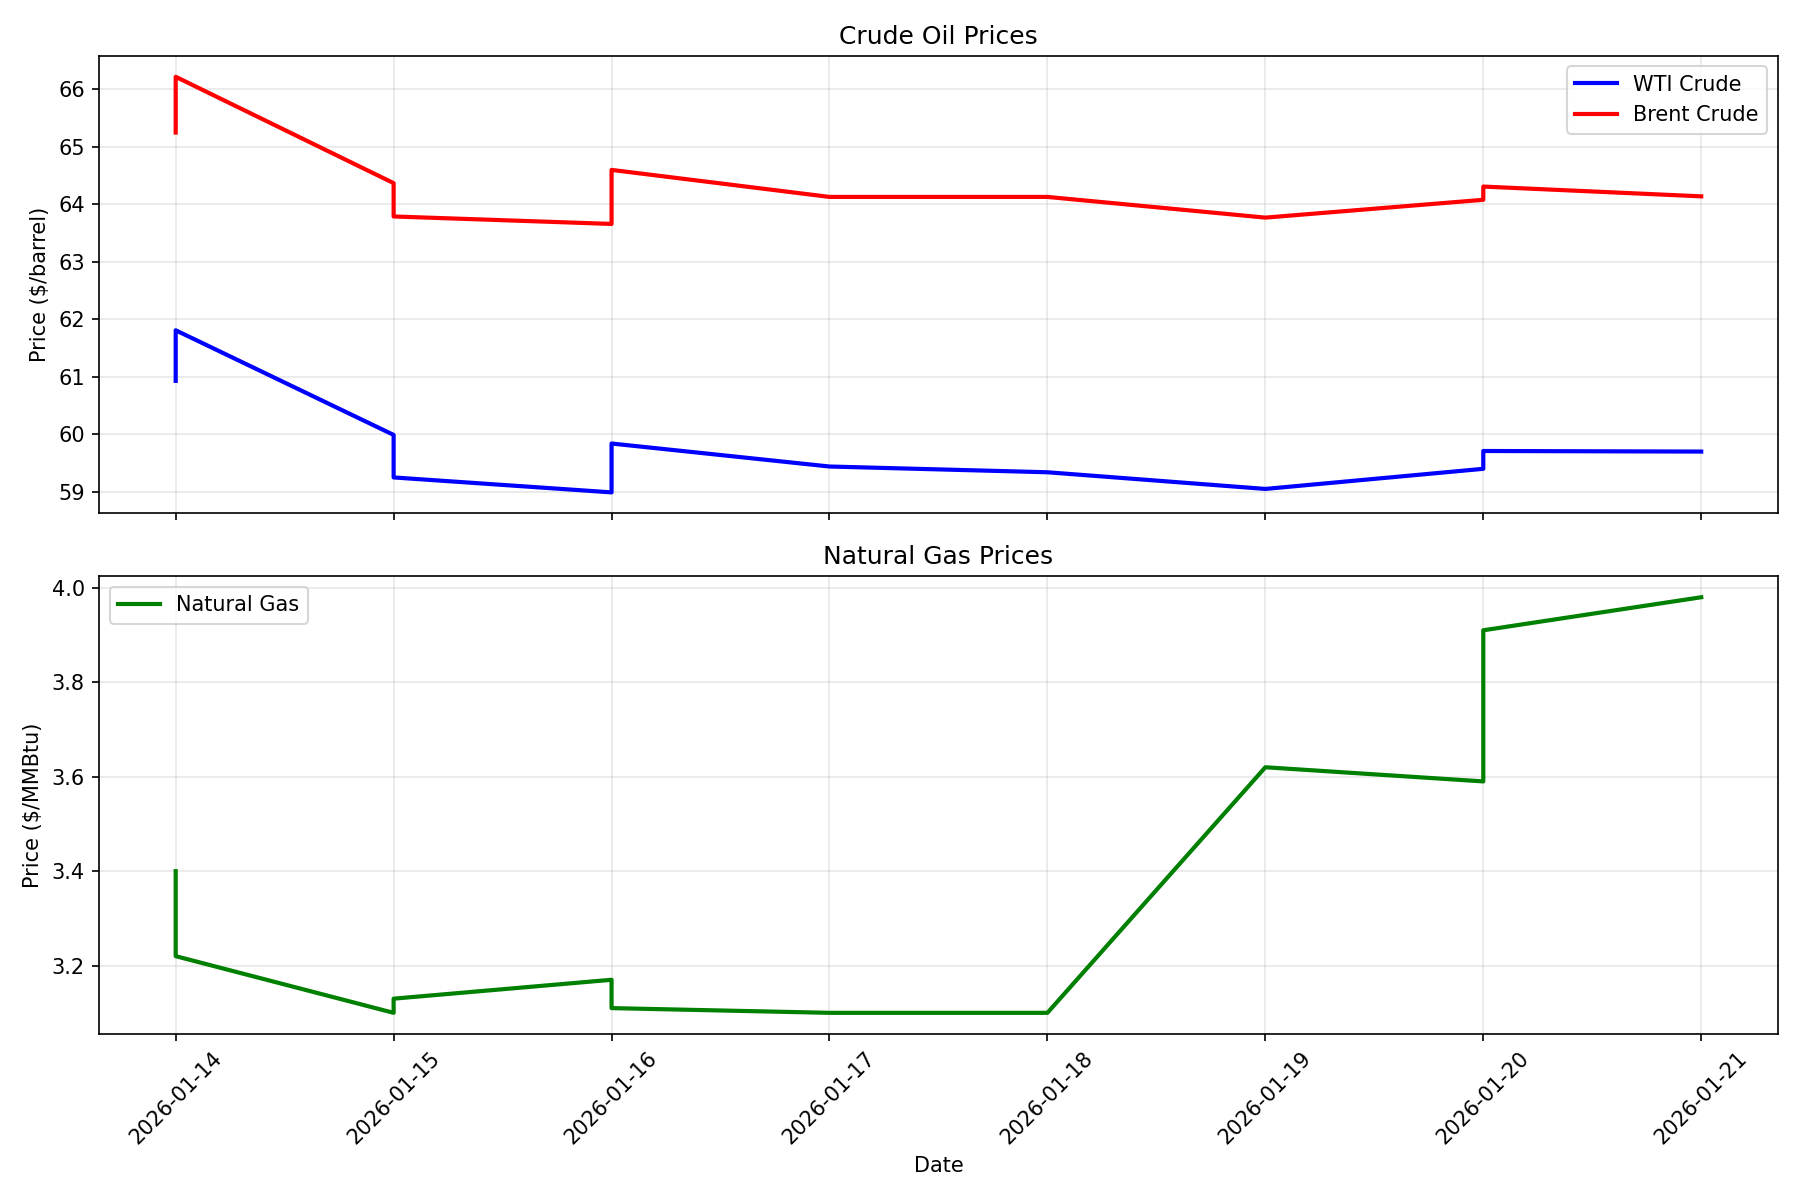
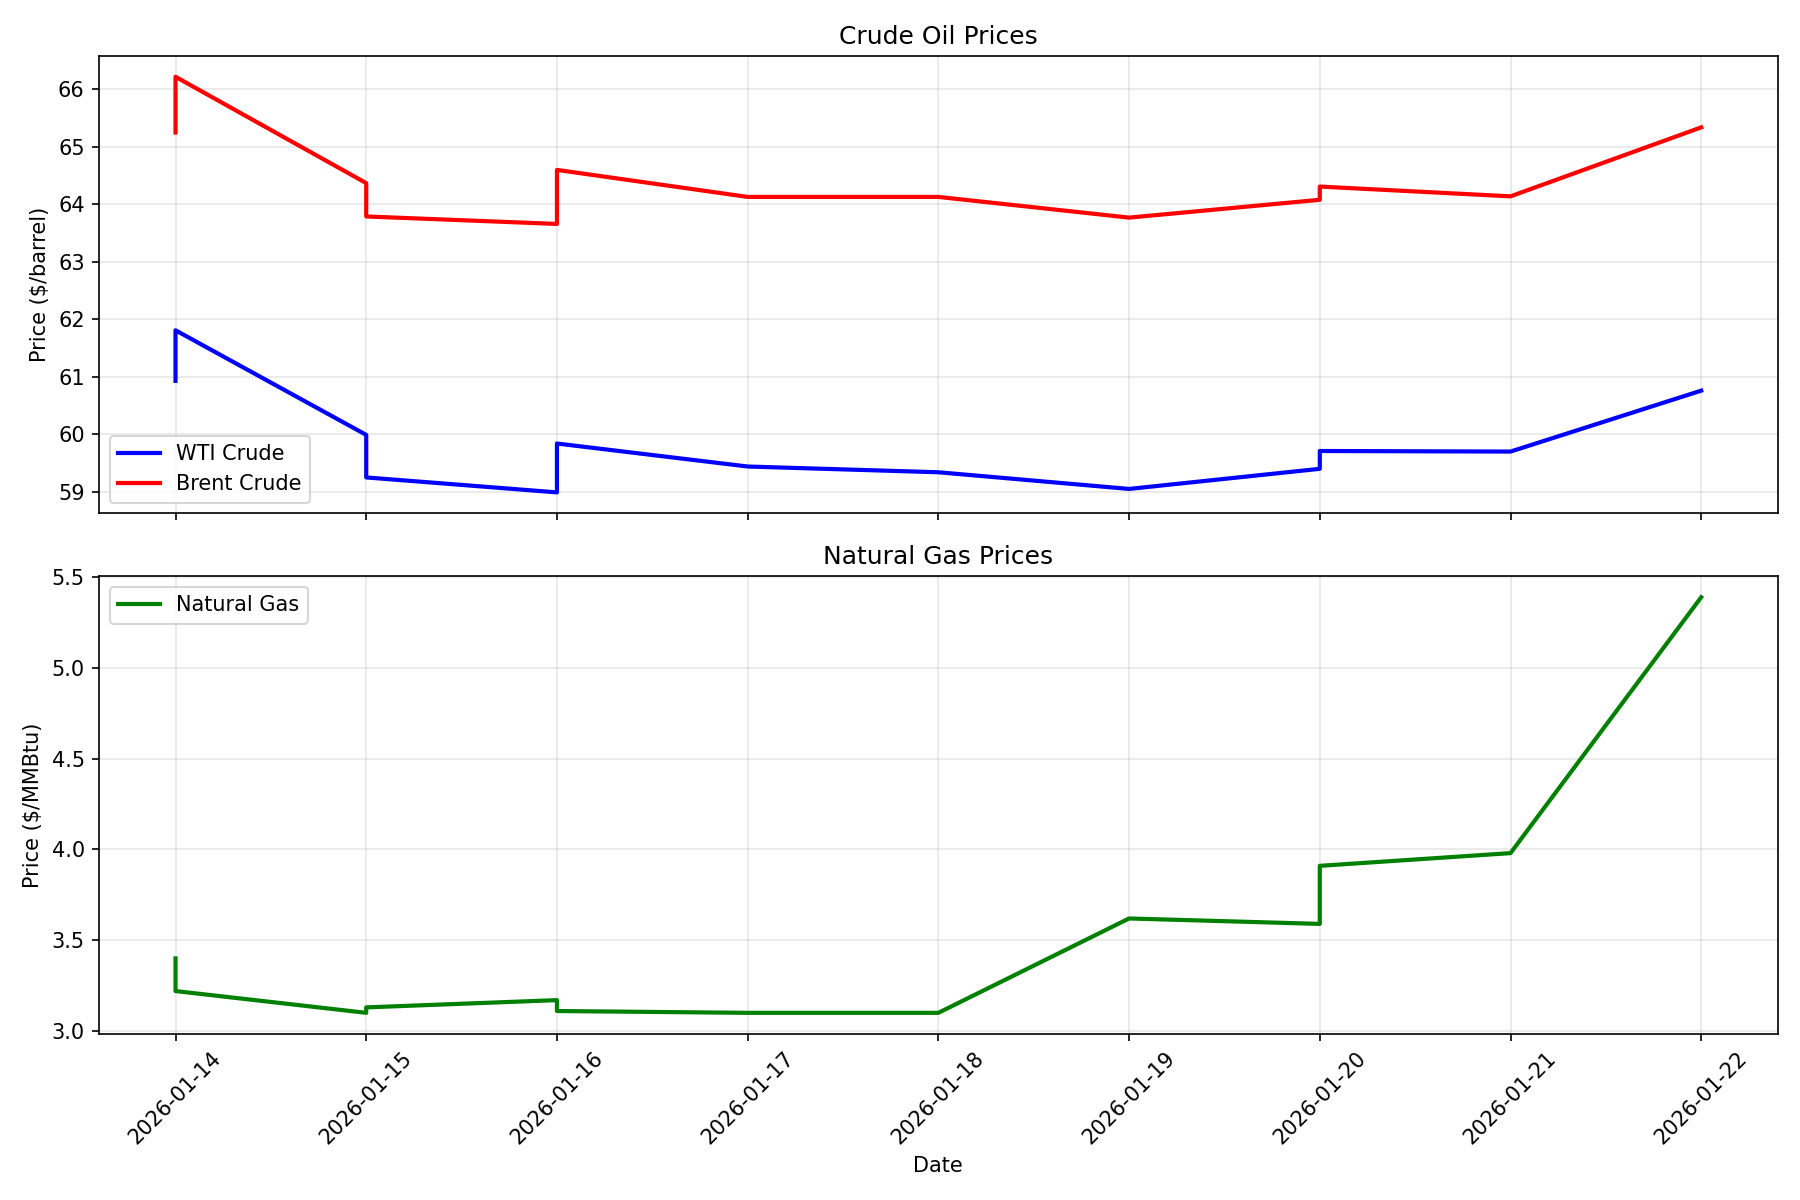
Daily price update: 2026-01-22

diff --git a/README.md b/README.md
@@ -2,29 +2,29 @@
 
 Automated daily tracking of chemical commodity prices and chemical company stocks.
 
-## Latest Prices (Updated: 2026-01-21)
+## Latest Prices (Updated: 2026-01-22)
 
 ### Energy Commodities
 
 | Commodity | Price | Change (24h) | Unit |
 |-----------|-------|--------------|------|
-| WTI Crude Oil | $59.70 | +0.00 (+0.00%) | $/barrel |
-| Brent Crude Oil | $64.14 | +0.00 (+0.00%) | $/barrel |
-| Natural Gas | $3.98 | +0.00 (+0.00%) | $/MMBtu |
-| Heating Oil | $2.29 | +0.00 (+0.00%) | $/gallon |
+| WTI Crude Oil | $60.76 | +0.00 (+0.00%) | $/barrel |
+| Brent Crude Oil | $65.34 | +0.00 (+0.00%) | $/barrel |
+| Natural Gas | $5.39 | +0.00 (+0.00%) | $/MMBtu |
+| Heating Oil | $2.34 | +0.00 (+0.00%) | $/gallon |
 
 ### Chemical Company Stocks
 
 | Company | Ticker | Price | Change (24h) |
 |---------|--------|-------|--------------|
-| Dow Inc. | DOW | $26.58 | -0.99 (-3.59%) |
-| LyondellBasell | LYB | $48.86 | -2.05 (-4.03%) |
-| DuPont | DD | $42.28 | -0.58 (-1.35%) |
-| Air Products | APD | $258.18 | -9.35 (-3.49%) |
-| Linde | LIN | $433.15 | -5.81 (-1.32%) |
-| Eastman Chemical | EMN | $66.19 | -2.48 (-3.61%) |
-| Celanese | CE | $44.23 | -2.71 (-5.77%) |
-| Huntsman | HUN | $11.30 | -0.61 (-5.12%) |
+| Dow Inc. | DOW | $28.41 | +1.83 (+6.88%) |
+| LyondellBasell | LYB | $51.82 | +2.96 (+6.06%) |
+| DuPont | DD | $43.38 | +1.10 (+2.60%) |
+| Air Products | APD | $263.11 | +4.93 (+1.91%) |
+| Linde | LIN | $439.35 | +6.20 (+1.43%) |
+| Eastman Chemical | EMN | $68.30 | +2.11 (+3.19%) |
+| Celanese | CE | $48.12 | +3.89 (+8.79%) |
+| Huntsman | HUN | $12.00 | +0.70 (+6.19%) |
 
 ## Data Sources
 

diff --git a/logs/update_log.md b/logs/update_log.md
@@ -23,3 +23,4 @@ Daily updates to the chemical engineering data repository.
 - **2026-01-20 00:01:14**: Updated 4 energy prices, 8 stocks, 0 FRED series
 - **2026-01-20 14:22:10**: Updated 4 energy prices, 8 stocks, 0 FRED series
 - **2026-01-21 00:02:00**: Updated 4 energy prices, 8 stocks, 0 FRED series
+- **2026-01-22 00:00:06**: Updated 4 energy prices, 8 stocks, 0 FRED series
